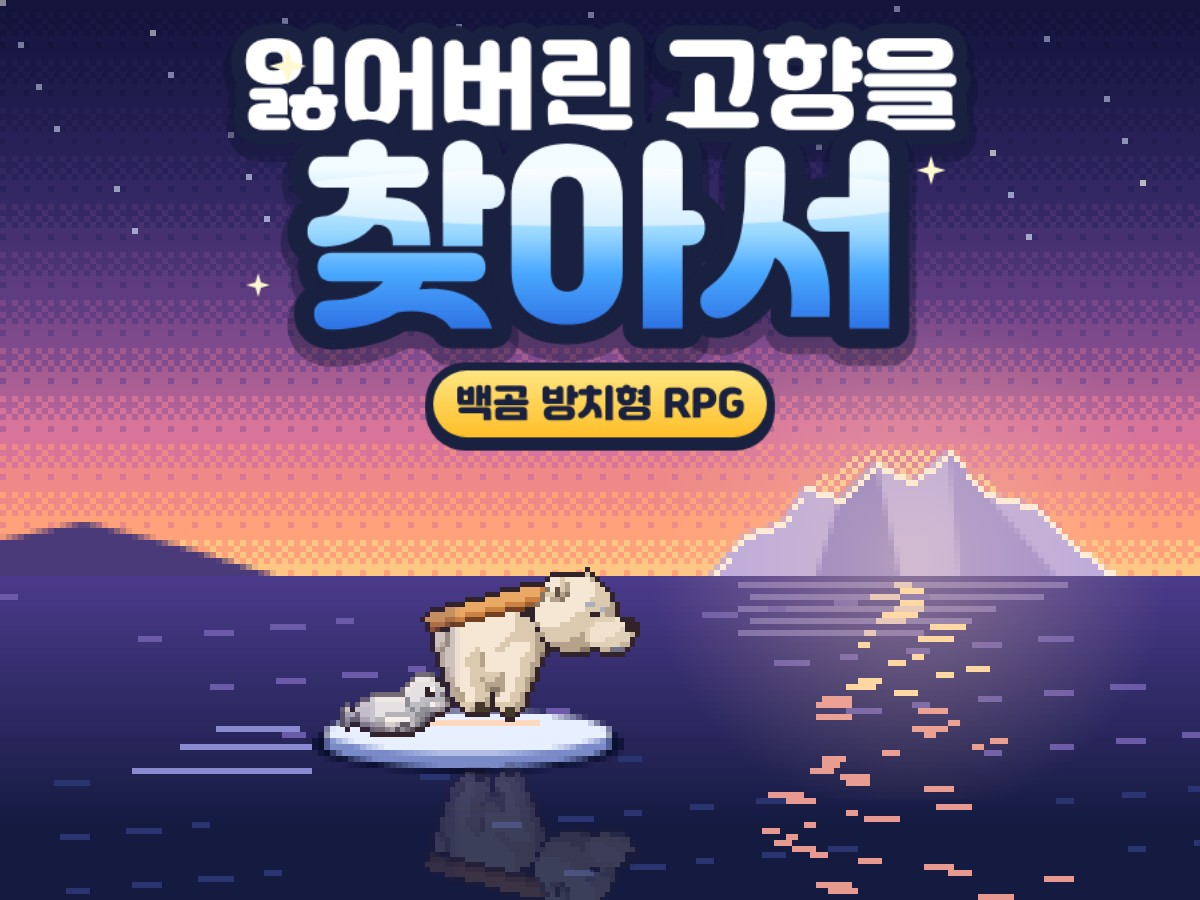
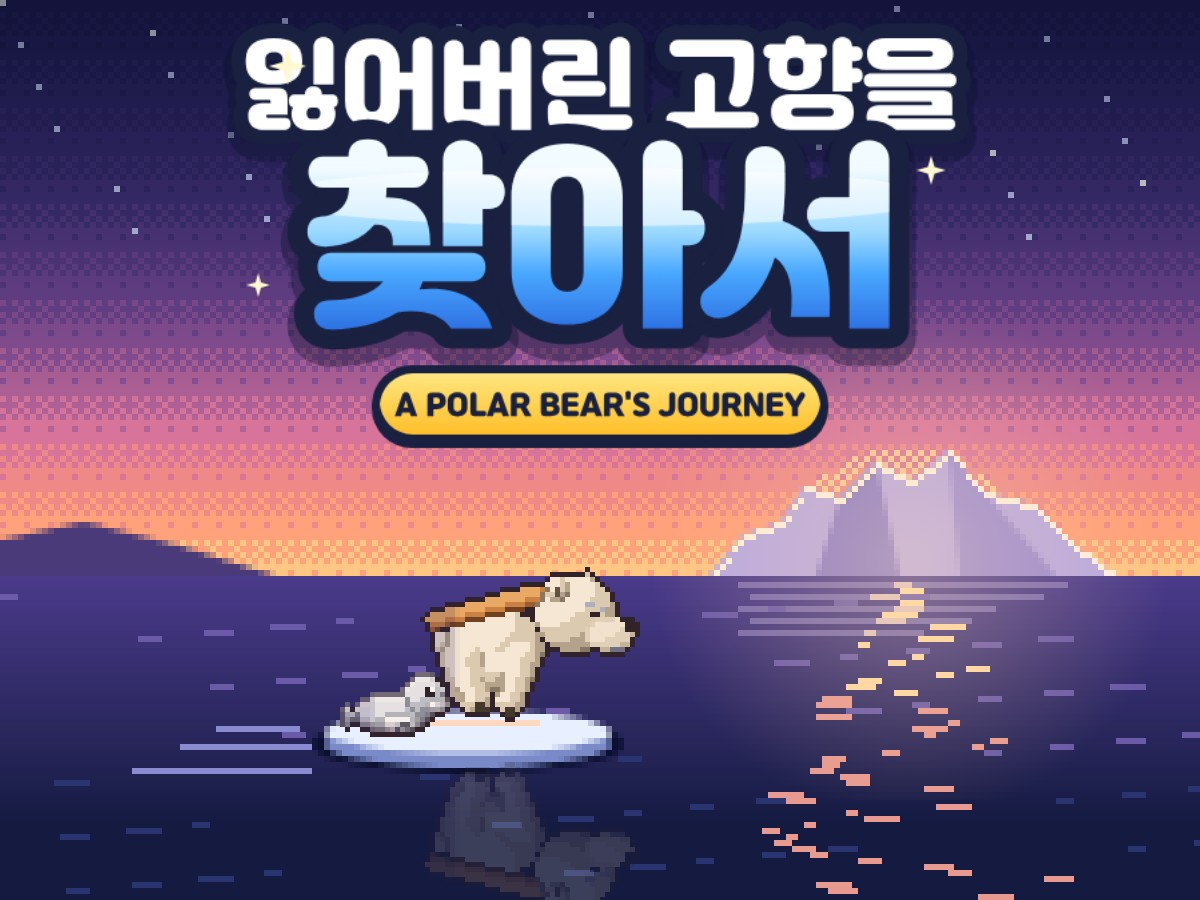
로고 배지를 A POLAR BEAR'S JOURNEY로 (#41)
Claude-Session: https://claude.ai/code/session_0114o1eoUYmoEoVJNaE9aRPx

Changed region(s): [[0.3083, 0.4044, 0.7092, 0.5289]]

diff --git a/lost-home/index.html b/lost-home/index.html
@@ -2523,9 +2523,9 @@ const LOGOS={
   // gloss on 찾아서
   x.save();x.font=`150px ${LHF}`;x.textAlign='center';x.textBaseline='middle';const m=document.createElement('canvas');m.width=704;m.height=400;const q=m.getContext('2d');q.font=x.font;q.textAlign='center';q.textBaseline='middle';q.fillText('찾아서',352,212);q.globalCompositeOperation='source-in';q.fillStyle='rgba(255,255,255,.55)';q.beginPath();q.ellipse(352,170,250,22,0,0,7);q.fill();x.drawImage(m,0,0);x.restore();
   // pill badge
-  const bw=250,bh=50,bx=352-bw/2,by=300;const rr=(X,Y,W,H,R)=>{x.beginPath();x.moveTo(X+R,Y);x.arcTo(X+W,Y,X+W,Y+H,R);x.arcTo(X+W,Y+H,X,Y+H,R);x.arcTo(X,Y+H,X,Y,R);x.arcTo(X,Y,X+W,Y,R);x.closePath()};
+  const bw=330,bh=46,bx=352-bw/2,by=302;const rr=(X,Y,W,H,R)=>{x.beginPath();x.moveTo(X+R,Y);x.arcTo(X+W,Y,X+W,Y+H,R);x.arcTo(X+W,Y+H,X,Y+H,R);x.arcTo(X,Y+H,X,Y,R);x.arcTo(X,Y,X+W,Y,R);x.closePath()};
   rr(bx-6,by-6,bw+12,bh+16,30);x.fillStyle=OL;x.fill();rr(bx,by,bw,bh,25);const g=x.createLinearGradient(0,by,0,by+bh);g.addColorStop(0,'#ffe680');g.addColorStop(1,'#ffbf2a');x.fillStyle=g;x.fill();
-  x.font=`28px ${LHF}`;x.fillStyle=OL;x.textAlign='center';x.textBaseline='middle';x.fillText('백곰 방치형 RPG',352,by+bh/2+2);
+  x.font=`22px ${LHF}`;x.fillStyle=OL;x.textAlign='center';x.textBaseline='middle';x.fillText("A POLAR BEAR'S JOURNEY",352,by+bh/2+2);
   [[118,72,14],[600,150,11],[96,236,9]].forEach(([a,b,r])=>{x.fillStyle='#fff8d0';x.beginPath();for(let i=0;i<8;i++){const an=i/8*Math.PI*2,rr2=i%2?r*.32:r;x.lineTo(a+Math.cos(an)*rr2,b+Math.sin(an)*rr2)}x.closePath();x.fill()})},
  old(x){const HF=LHF;x.save();x.translate(320,206);x.rotate(-.05);
   x.beginPath();const N=18;for(let i=0;i<N*2;i++){const a=i/(N*2)*Math.PI*2,r=i%2?150:182,rx=r*1.62;x.lineTo(Math.cos(a)*rx,Math.sin(a)*r*.82)}x.closePath();
